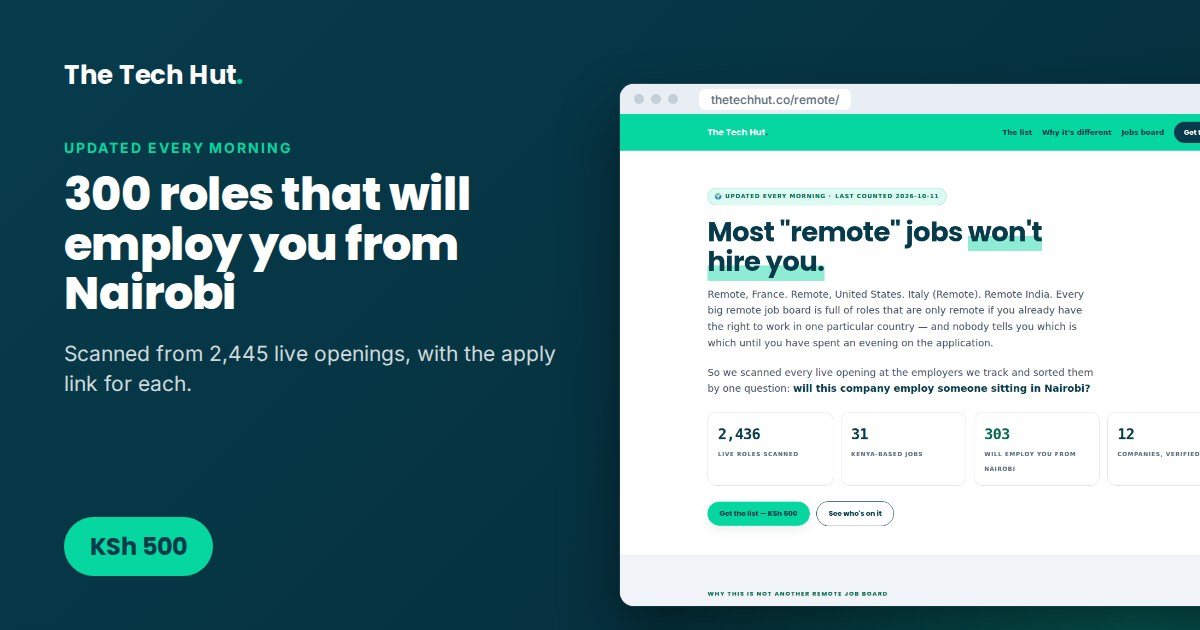
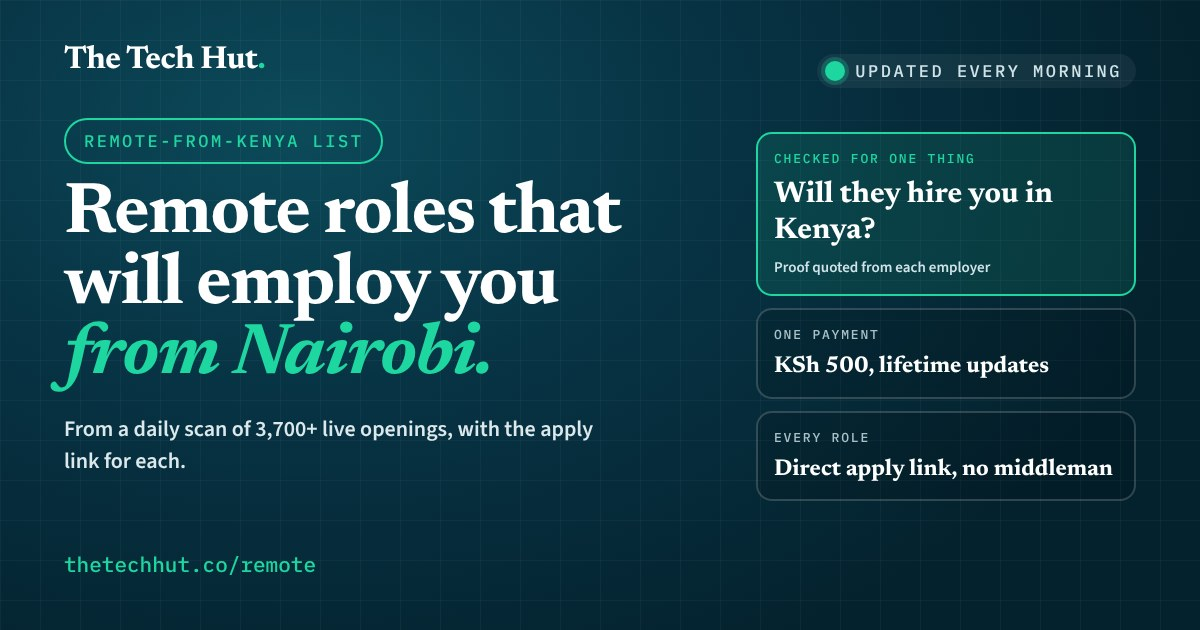
Remote list: replace the stale 2,445 and 300 figures, new share image
The daily scan now covers about 3,771 openings and finds 492 roles at 55
companies, but the Remote page's meta text, a heading, a callout, the shop
and jobs blurbs and the share image still said 2,445 and 300. The copy now
says "more than 3,700 every morning"; the heading and funnel fill from
remote-summary.json; the one-employer callout is dated 13 Nov (239 of 492).
The share image is redrawn in the current brand with no figure that dates.

Claude-Session: https://claude.ai/code/session_012aqDtYgHZhPc87kBUa8yyQ

diff --git a/remote/index.html b/remote/index.html
@@ -7,18 +7,18 @@
     <title>Work from Kenya for a company abroad — the verified list | The Tech Hut</title>
     <link rel="canonical" href="https://thetechhut.co/remote/">
 
-    <meta name="description" content="We scanned 2,445 live openings at 22 employers. 300 of them will employ you while you sit in Nairobi. The verified list, with the apply link for each, updated every morning.">
+    <meta name="description" content="Every morning we scan more than 3,700 live openings. Nearly 500 of them will employ you while you sit in Nairobi. The verified list, with the apply link for each, updated every morning.">
     <meta name="keywords" content="remote jobs Kenya, work remotely from Kenya, international remote jobs Kenya, EMEA remote jobs, remote developer jobs Nairobi, The Tech Hut">
 
     <meta property="og:type" content="website">
-    <meta property="og:title" content="300 roles that will employ you from Nairobi">
-    <meta property="og:description" content="Most remote jobs are remote-if-you-live-in-France. We scanned 2,445 openings to find the 300 that are not.">
+    <meta property="og:title" content="Remote roles that will employ you from Nairobi">
+    <meta property="og:description" content="Most remote jobs are remote-if-you-live-in-France. We scan more than 3,700 openings every morning to find the ones that are not.">
     <meta property="og:url" content="https://thetechhut.co/remote/">
-    <meta property="og:image" content="https://thetechhut.co/assets/img/social/remote.jpg">
+    <meta property="og:image" content="https://thetechhut.co/assets/img/social/remote.jpg?v=2">
     <meta property="og:image:width" content="1200">
     <meta property="og:image:height" content="630">
-    <meta property="og:image:alt" content="The Remote-From-Kenya list: 300 roles that will employ you from Nairobi">
-    <meta name="twitter:image" content="https://thetechhut.co/assets/img/social/remote.jpg">
+    <meta property="og:image:alt" content="The Remote-From-Kenya list: remote roles that will employ you from Nairobi">
+    <meta name="twitter:image" content="https://thetechhut.co/assets/img/social/remote.jpg?v=2">
     <meta name="twitter:card" content="summary_large_image">
 
     <link rel="icon" type="image/png" sizes="32x32"
@@ -61,10 +61,10 @@
             </p>
 
             <div class="funnel">
-                <div class="fstep"><b id="nScanned">2,445</b><span>Live roles scanned</span></div>
-                <div class="fstep"><b id="nLocal">34</b><span>Kenya-based jobs</span></div>
-                <div class="fstep hero"><b id="nGlobal">300</b><span>Will employ you from Nairobi</span></div>
-                <div class="fstep"><b id="nCos">12</b><span>Companies, verified</span></div>
+                <div class="fstep"><b id="nScanned">3,771</b><span>Live roles scanned</span></div>
+                <div class="fstep"><b id="nLocal">230</b><span>Kenya-based jobs</span></div>
+                <div class="fstep hero"><b id="nGlobal">492</b><span>Will employ you from Nairobi</span></div>
+                <div class="fstep"><b id="nCos">55</b><span>Companies, verified</span></div>
             </div>
 
             <div class="cta-row" style="margin-top:28px">
@@ -77,7 +77,7 @@
     <section id="why">
         <div class="wrap">
             <span class="eyebrow">Why this is not another remote job board</span>
-            <h2>The 2,445 to 300 problem</h2>
+            <h2>The <span id="hScanned">3,771</span> to <span id="hGlobal">492</span> problem</h2>
             <p class="tight" style="max-width:66ch">
                 Here is the thing that costs Kenyan developers the most time, and it is not a lack of
                 remote jobs. It is that "remote" has two completely different meanings and the job
@@ -161,9 +161,9 @@
 
             <div class="callout tip">
                 <b>One company is doing most of the work.</b> We are not going to pretend otherwise:
-                on the day of writing, a single employer accounted for 234 of the 300 eligible roles —
+                on 13 November 2026, a single employer accounted for 239 of the 492 eligible roles —
                 across engineering, support, sales, design and operations, all "home based". The list
-                tells you which one, and which of its roles are open to you right now. The other eleven
+                tells you which one, and which of its roles are open to you right now. The other 54
                 are the ones you would never have found.
             </div>
         </div>
@@ -290,6 +290,8 @@
                 document.getElementById('nLocal').textContent = n(d.local_role_count);
                 document.getElementById('nGlobal').textContent = n(d.role_count);
                 document.getElementById('nCos').textContent = n(d.company_count);
+                document.getElementById('hScanned').textContent = n(d.roles_scanned);
+                document.getElementById('hGlobal').textContent = n(d.role_count);
 
                 var cos = d.companies || [];
                 var box = document.getElementById('live');

diff --git a/blog/remote-jobs-kenya/index.html b/blog/remote-jobs-kenya/index.html
@@ -15,19 +15,19 @@
 <meta property="og:title" content="8 Best Places to Find Legit Remote Jobs in Kenya in 2026">
 <meta property="og:description" content="Compare 8 sources of remote jobs Kenya residents can apply to, from entry-level to part-time, and learn how to spot scams before you apply.">
 <meta property="og:url" content="https://thetechhut.co/blog/remote-jobs-kenya/">
-<meta property="og:image" content="https://thetechhut.co/assets/img/social/remote.jpg">
+<meta property="og:image" content="https://thetechhut.co/assets/img/social/remote.jpg?v=2">
 <meta property="og:image:width" content="1200">
 <meta property="og:image:height" content="630">
 <meta property="og:site_name" content="The Tech Hut">
 <meta name="twitter:card" content="summary_large_image">
 <meta name="twitter:title" content="8 Best Places to Find Legit Remote Jobs in Kenya in 2026">
 <meta name="twitter:description" content="Compare 8 sources of remote jobs Kenya residents can apply to, from entry-level to part-time, and learn how to spot scams before you apply.">
-<meta name="twitter:image" content="https://thetechhut.co/assets/img/social/remote.jpg">
+<meta name="twitter:image" content="https://thetechhut.co/assets/img/social/remote.jpg?v=2">
 <script type="application/ld+json">
 {"@context":"https://schema.org","@type":"BlogPosting",
  "headline":"8 Best Places to Find Legit Remote Jobs in Kenya in 2026",
  "description":"Compare 8 sources of remote jobs Kenya residents can apply to, from entry-level to part-time, and learn how to spot scams before you apply.",
- "image":"https://thetechhut.co/assets/img/social/remote.jpg",
+ "image":"https://thetechhut.co/assets/img/social/remote.jpg?v=2",
  "datePublished":"2026-11-14",
  "dateModified":"2026-11-14",
  "author":{"@type":"Organization","name":"The Tech Hut","url":"https://thetechhut.co/"},
@@ -87,7 +87,7 @@
 
 <main id="main">
   <header class="art-hero">
-    <figure class="pic"><img src="/assets/img/social/remote.jpg" alt="The Tech Hut's Remote-From-Kenya list: remote roles at companies that hire in Kenya" width="1200" height="630" style="object-position:100% 50%" fetchpriority="high" decoding="async" onerror="this.remove()"></figure>
+    <figure class="pic"><img src="/assets/img/social/remote.jpg?v=2" alt="The Remote-From-Kenya list: remote roles that will employ you from Nairobi" width="1200" height="630" style="object-position:0 50%" fetchpriority="high" decoding="async" onerror="this.remove()"></figure>
     <div class="panel">
       <a class="cat" href="/blog/#c=careers">Careers &middot; Remote work</a>
       <h1>8 Best Places to Find Legit Remote Jobs in Kenya in 2026</h1>

diff --git a/shop/index.html b/shop/index.html
@@ -160,7 +160,7 @@
                     <span class="kind">Launch price</span>
                     <h3>The Remote-From-Kenya List</h3>
                     <p class="tagline">Updated every morning</p>
-                    <p>We scanned 2,445 live openings to find the ones that will employ you while you
+                    <p>Every morning we scan more than 3,700 live openings to find the ones that will employ you while you
                        sit in Nairobi. Company by company, role by role, with the apply link.</p>
                     <div class="money">
                         <span class="strike">KSh 1,000</span>

diff --git a/jobs/index.html b/jobs/index.html
@@ -510,7 +510,7 @@
       <div class="promo">
         <h2>&ldquo;Remote&rdquo; often means &ldquo;not you&rdquo;</h2>
         <p>Remote, France. Italy (Remote). Remote India. Plenty of the remote roles above are only
-           open to people already living somewhere else. We scanned 2,445 openings to find the ones
+           open to people already living somewhere else. We scan more than 3,700 openings every morning to find the ones
            that will genuinely employ you from Nairobi.</p>
         <a class="go" href="/remote/">See the Remote-From-Kenya list</a>
       </div>

diff --git a/blog/index.html b/blog/index.html
@@ -275,7 +275,7 @@
                     excerpt: "Most \u201cremote\u201d listings are not open to you. Eight places to find the ones that are, who each suits, and how to spot a scam before you apply.",
                     author: "The Tech Hut",
                     date: "November 14, 2026",
-                    image: "/assets/img/social/remote.jpg",
+                    image: "/assets/img/social/remote.jpg?v=2",
                     likes: 0,
                     url: "/blog/remote-jobs-kenya/"
                 },
